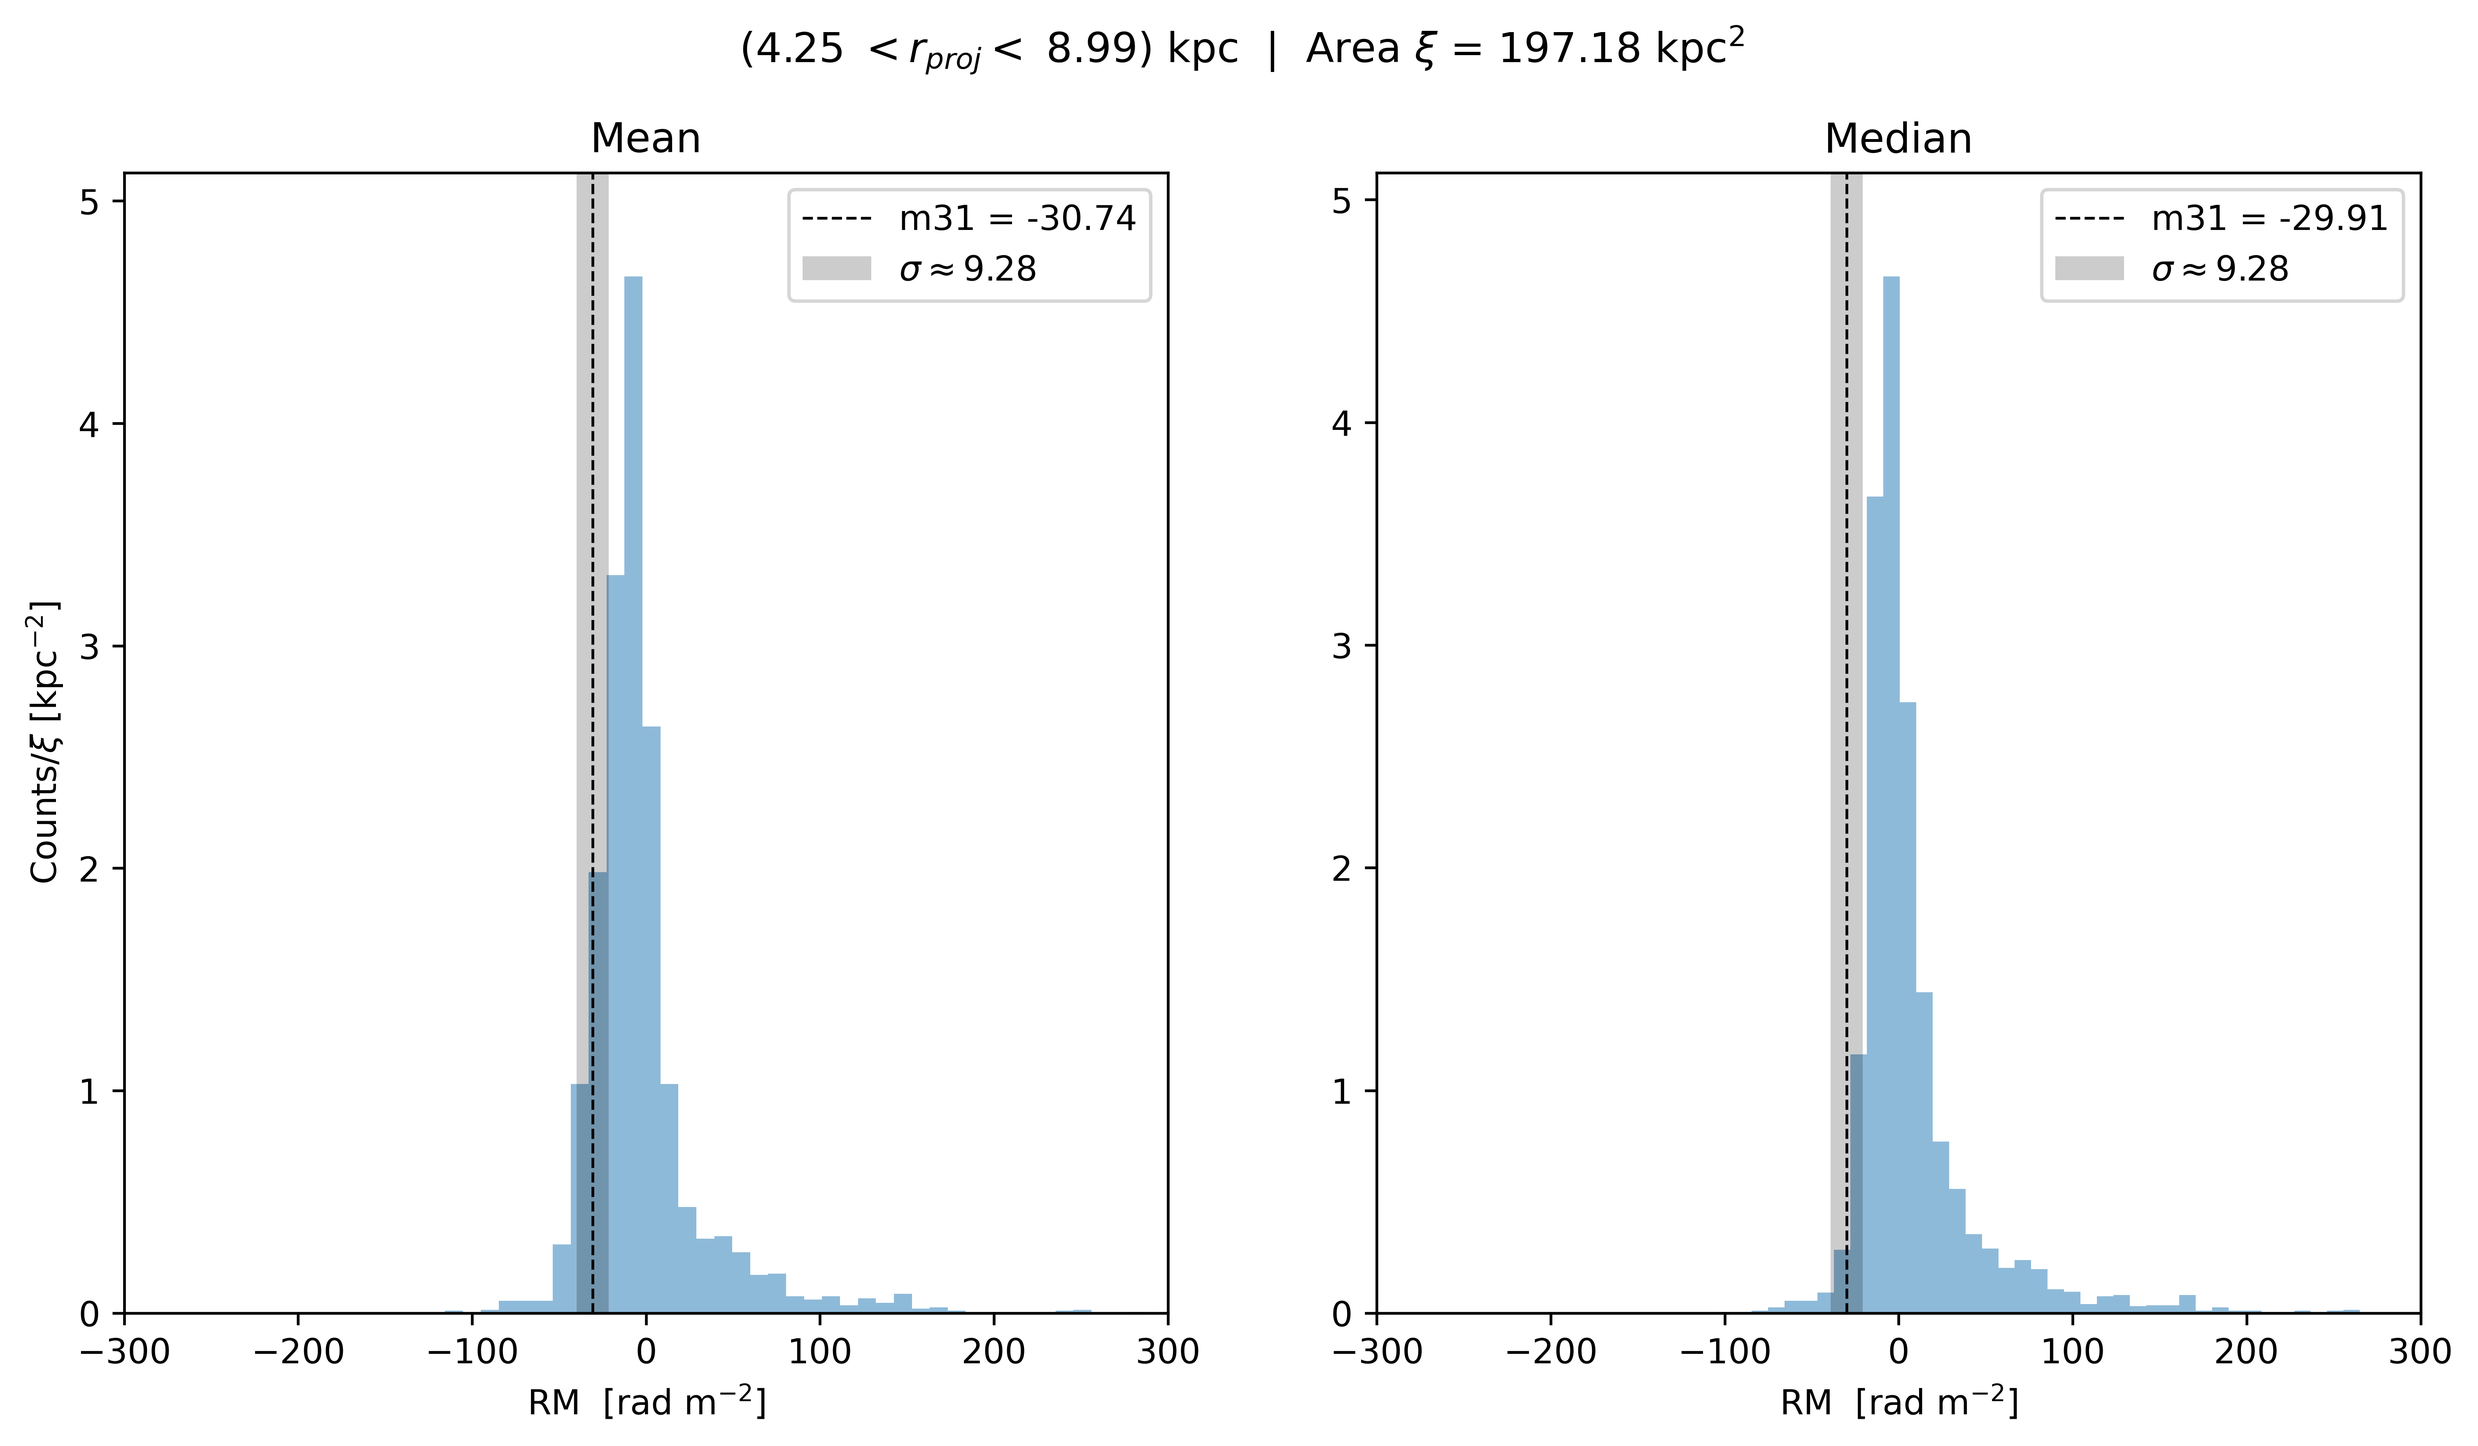
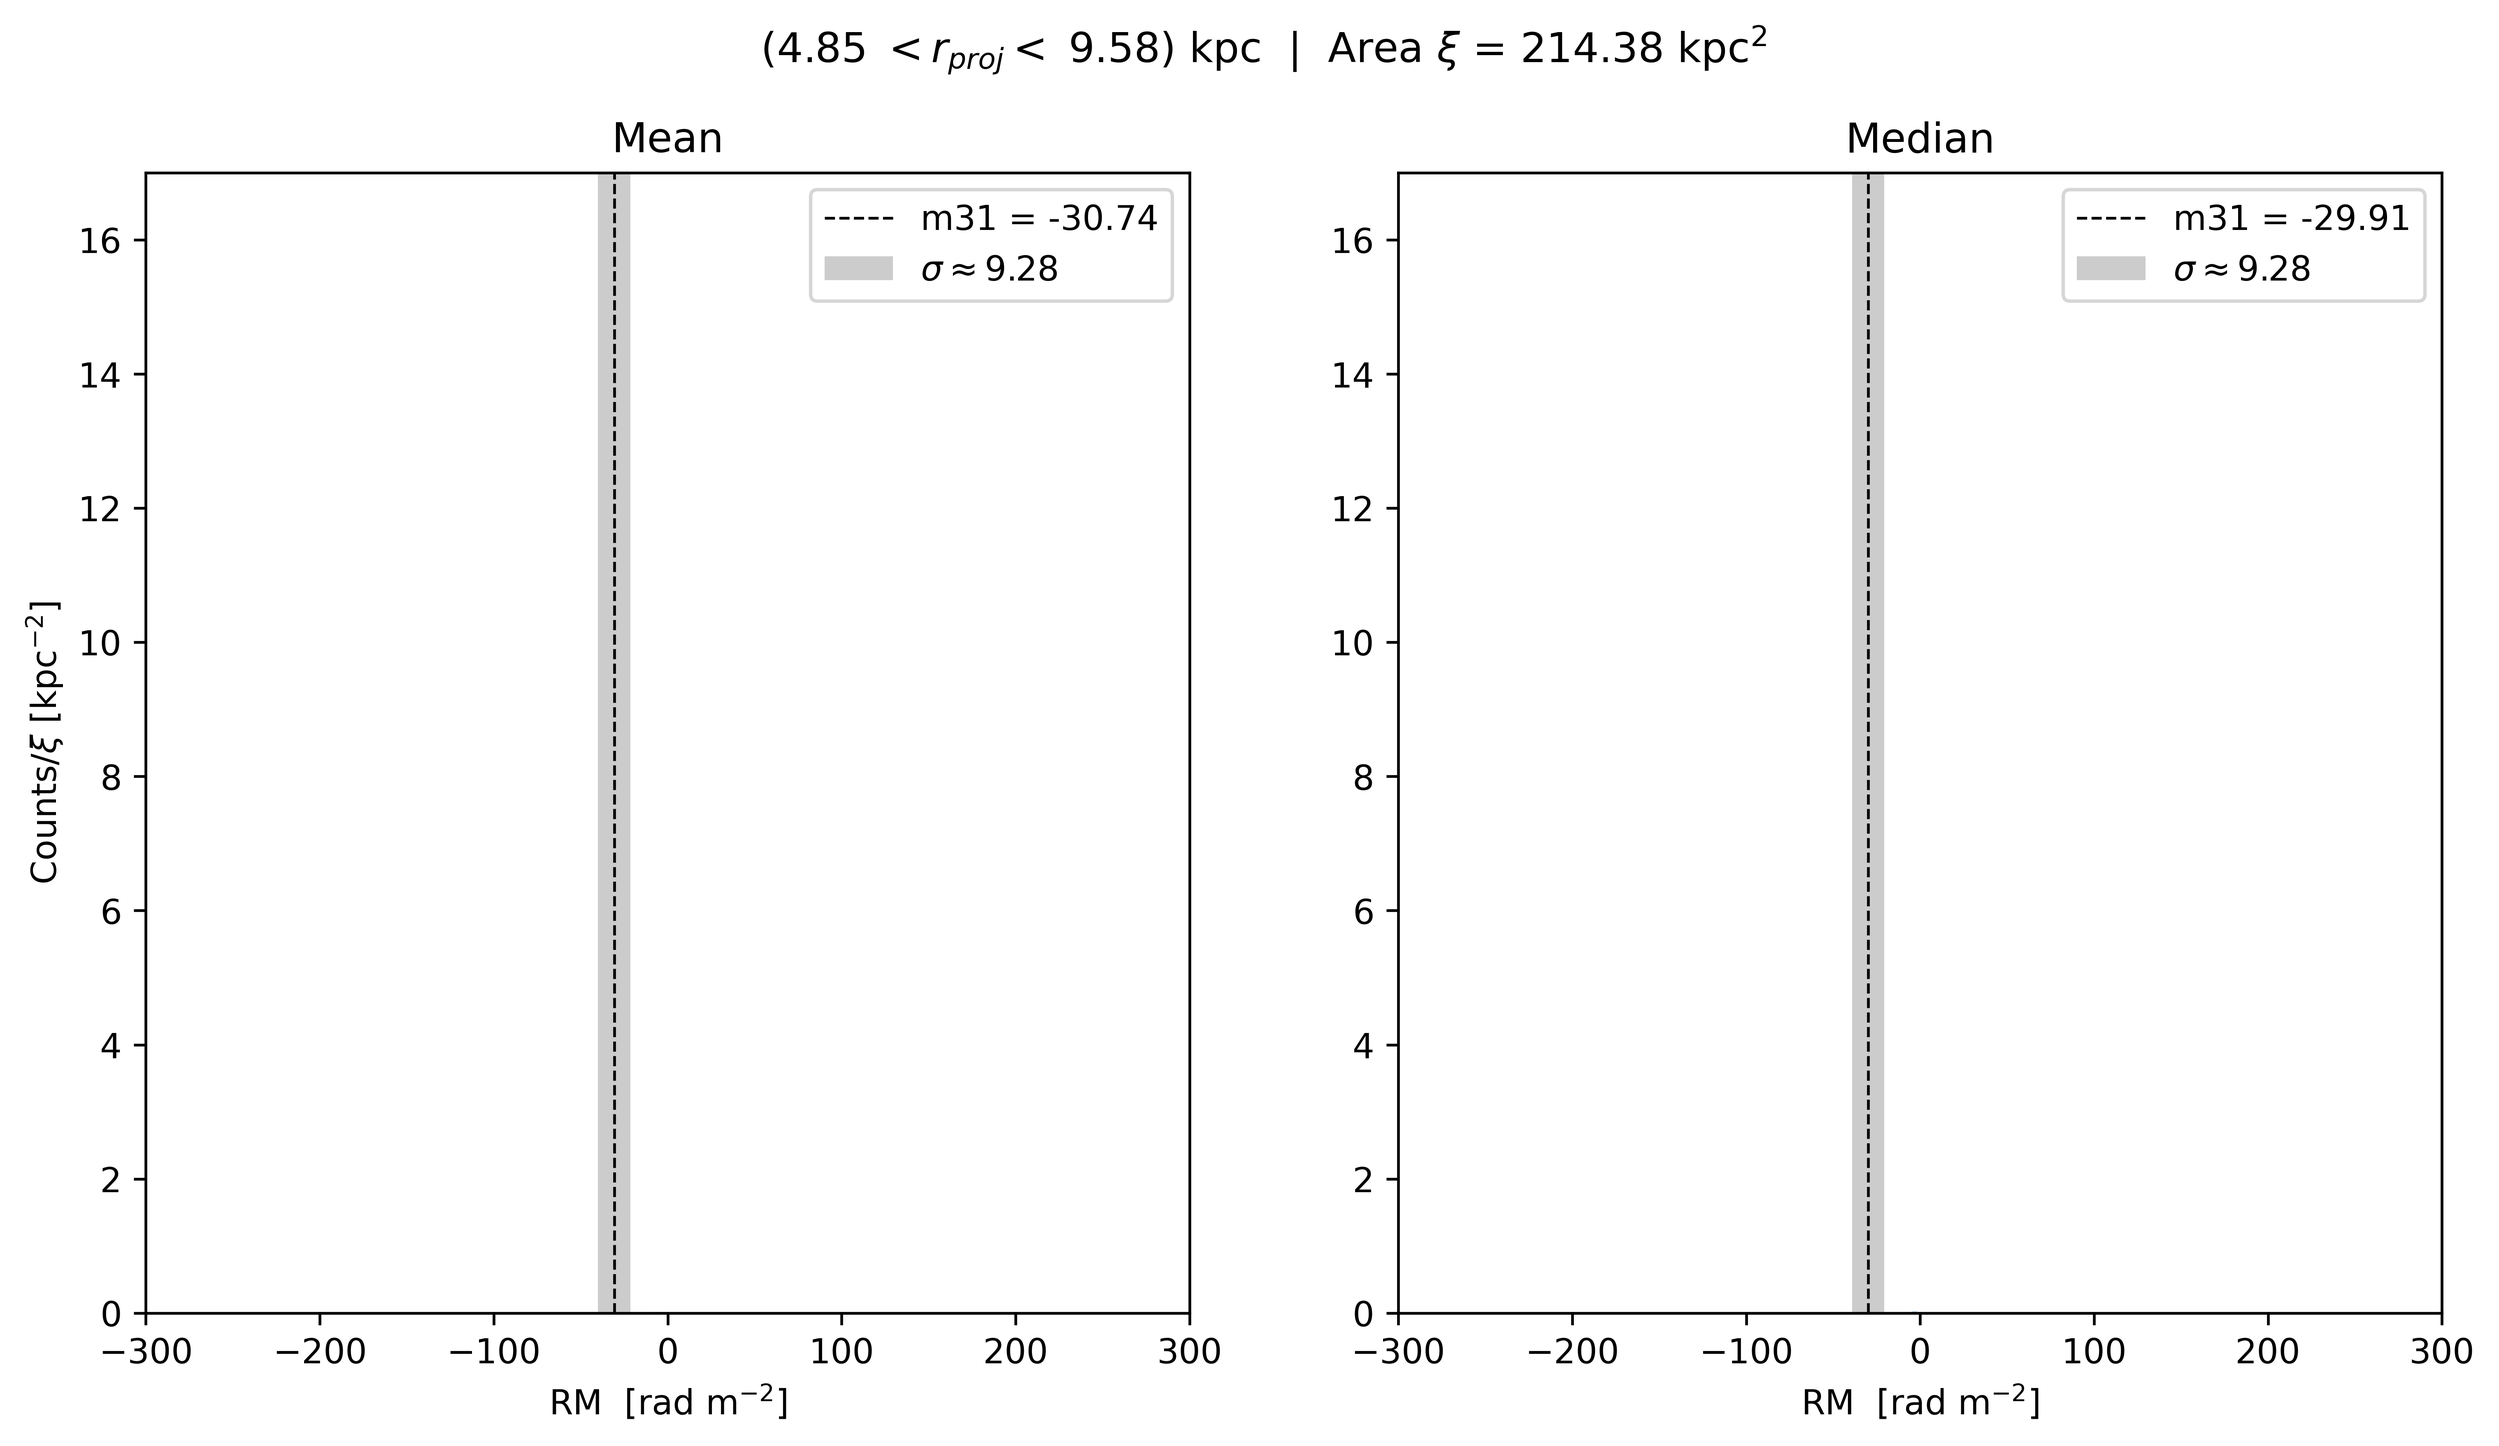
testing x limits

diff --git a/M31_signal_vs_entire_sky.py b/M31_signal_vs_entire_sky.py
@@ -274,26 +274,26 @@ def annuli_analysis(save_plot=False, stack_indiv_patch=False):
                 axes[0].set_title("Mean")
                 axes[0].set_xlabel("RM " +  x_axis_label)
                 axes[0].set_ylabel("Counts" + r"/$\xi$" + f" [{annul_dist_type}"+ r"$^{-2}$]")
-                axes[0].set_ylim(*ylim)
-                axes[0].set_xlim(*xlim)
 
                 #dividing Counts of Mean by Annulus Area
                 for p in patches_mean: p.set_height(p.get_height() / annul_area)
                 counts /= annul_area
-                axes[0].set_ylim(0, np.max(counts) * 1.1)
+                # axes[0].set_ylim(0, np.max(counts) * 1.1)
+                axes[0].set_ylim(*ylim)
+                axes[0].set_xlim(*xlim)
                 
                 # Plotting for "Median" subplot (right side)
                 counts, _, patches_med = axes[1].hist(rm_per_annulus_median[bin_idx], bins=histbin, alpha=0.5)
                 axes[1].set_title("Median")
                 axes[1].set_xlabel("RM " +  x_axis_label)
                 # axes[1].set_ylabel("Counts")
-                axes[1].set_ylim(*ylim)
-                axes[1].set_xlim(*xlim)
 
                 #dividing Counts of Median by Annulus Area
                 for p in patches_med: p.set_height(p.get_height() / annul_area)
                 counts /= annul_area
-                axes[1].set_ylim(0, np.max(counts) * 1.1)
+                # axes[1].set_ylim(0, np.max(counts) * 1.1)
+                axes[1].set_ylim(*ylim)
+                axes[1].set_xlim(*xlim)
 
                 # For M31 relative annulus (mean RM)
                 axes[0].axvline(x=b_m_1[bin_idx-1], 
@@ -331,7 +331,7 @@ def annuli_analysis(save_plot=False, stack_indiv_patch=False):
                 else:
                     plt.show()
 
-                # break #Testing out one plot
+                break #Testing out one plot
 
         if save_plot: 
             plt.close()  # Deleting the figure to clear memory
